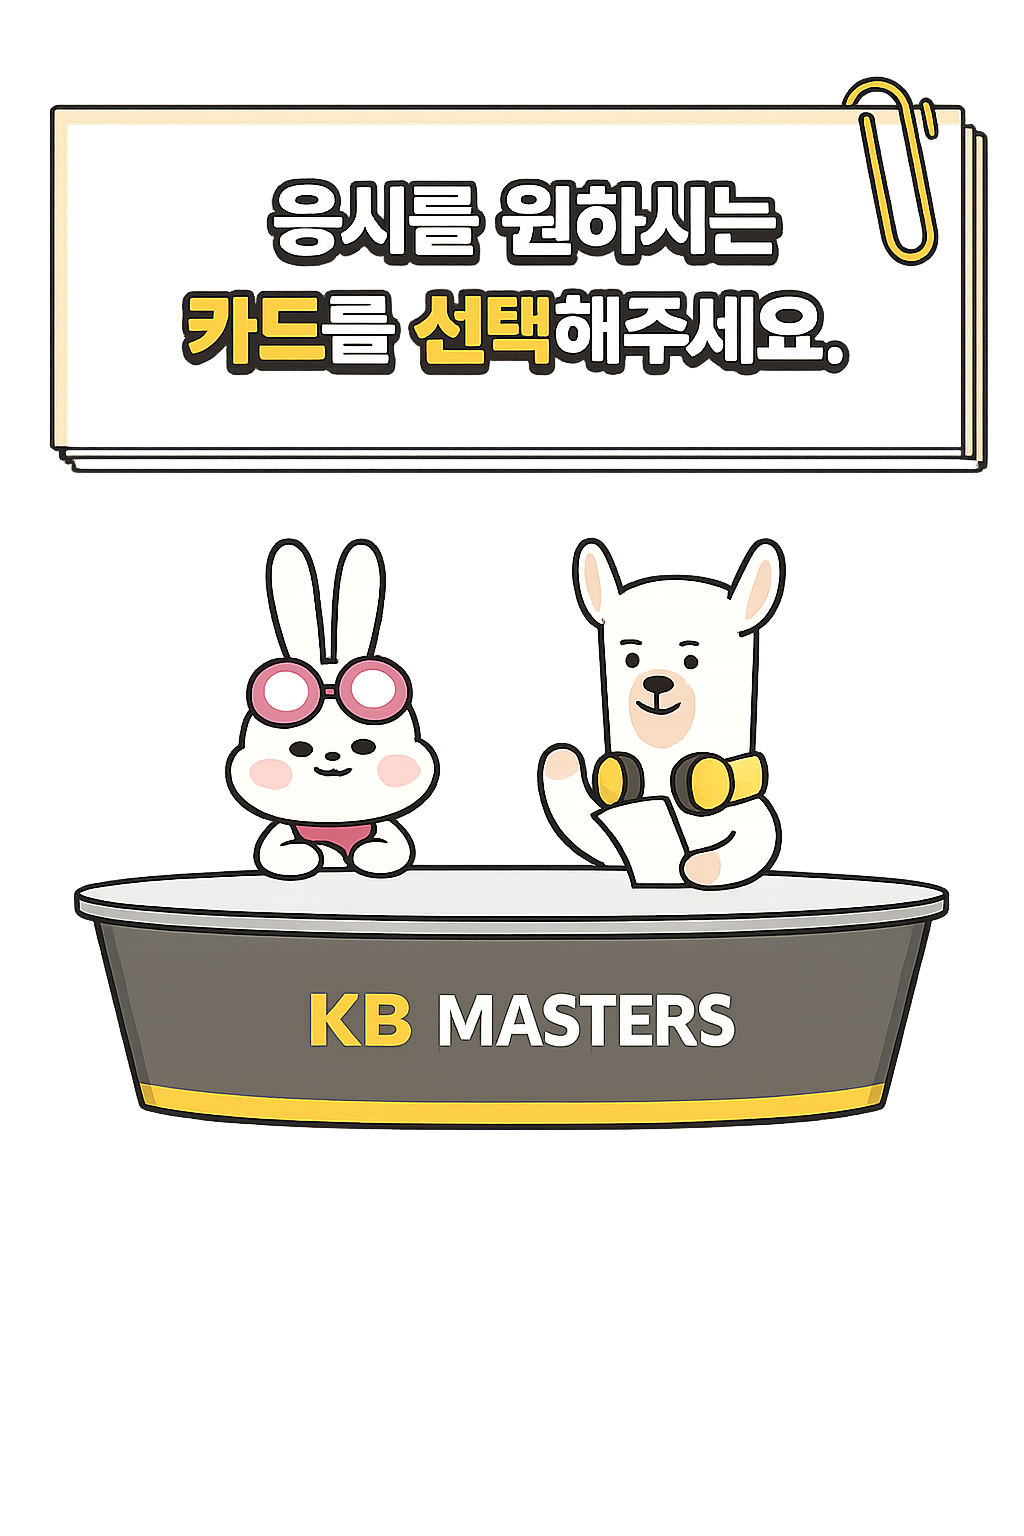
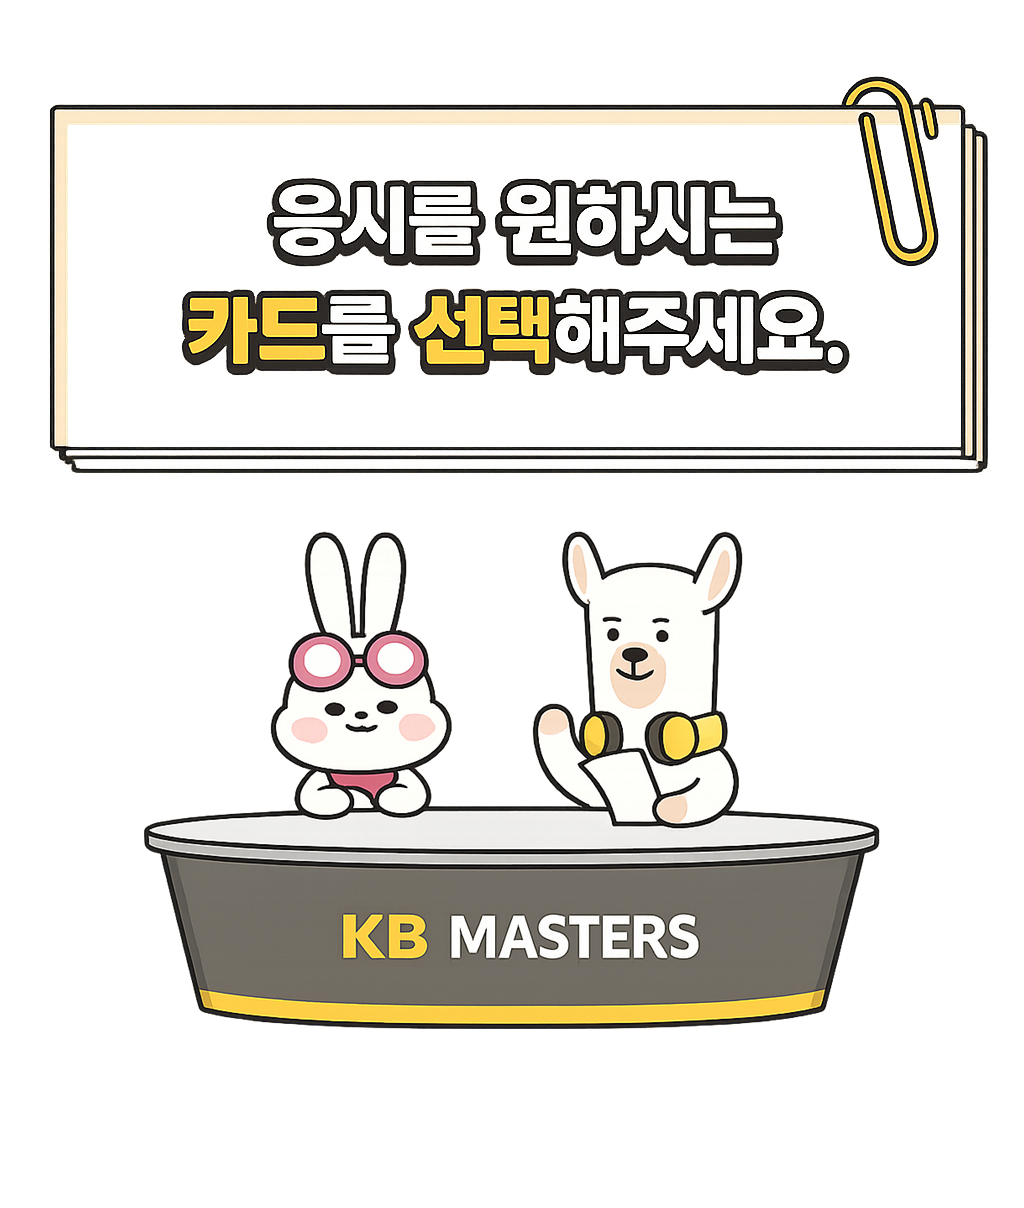
오답 리뷰 완료 화면 및 과목 안내 이미지 개선

diff --git a/frontend/style.css b/frontend/style.css
@@ -22,6 +22,15 @@
   padding: 0;
 }
 
+.sr-only {
+  position: absolute;
+  width: 1px;
+  height: 1px;
+  overflow: hidden;
+  clip: rect(0 0 0 0);
+  white-space: nowrap;
+}
+
 body {
   min-height: 100vh;
   background: linear-gradient(180deg, #fffdf4 0%, #f7f1df 100%);
@@ -326,6 +335,16 @@ body[data-page="wrong"] .brand {
 .nav-btn.active,
 .nav-btn:hover {
   background: #dbeafe;
+  color: #1d4ed8;
+}
+
+body[data-page="subjects"] .nav-btn {
+  color: #1d4ed8;
+}
+
+body[data-page="subjects"] .nav-btn.active,
+body[data-page="subjects"] .nav-btn:hover {
+  background: #fff3bf;
   color: #1d4ed8;
 }
 
@@ -920,7 +939,7 @@ body[data-page="my-info"] .screen-head,
 .subject-page-title {
   display: grid;
   gap: 4px;
-  margin: 0 auto 8px;
+  margin: -10px auto 14px;
   text-align: center;
 }
 
@@ -956,7 +975,7 @@ body[data-page="my-info"] .screen-head,
   gap: 8px;
   justify-items: center;
   margin: 0 auto;
-  max-height: 318px;
+  max-height: 306px;
   overflow: hidden;
 }
 
@@ -965,7 +984,7 @@ body[data-page="my-info"] .screen-head,
   width: min(300px, calc(100vw - 150px));
   min-width: 180px;
   height: auto;
-  margin: -18px 0 0;
+  margin: -30px 0 0;
   border-radius: 8px;
 }
 
@@ -993,7 +1012,7 @@ body[data-page="my-info"] .screen-head,
 
 @media (max-width: 420px) {
   .subject-guide-row {
-    max-height: 252px;
+    max-height: 240px;
   }
 
   .subject-start-btn {
@@ -2206,7 +2225,7 @@ body[data-page="mock"] .choice-btn.selected {
 .review-complete-visual {
   position: relative;
   justify-self: center;
-  width: min(100%, 320px);
+  width: min(100%, 420px);
 }
 
 .review-complete-visual img {
@@ -2215,17 +2234,25 @@ body[data-page="mock"] .choice-btn.selected {
   height: auto;
 }
 
-.review-complete-visual h2 {
+.review-complete-copy {
   position: absolute;
-  top: 14px;
-  left: 0;
-  right: 0;
-  margin: 0;
-  color: #f5b800;
-  font-size: 1.35rem;
+  top: 42%;
+  left: 18%;
+  display: grid;
+  width: 62%;
+  gap: 0;
+  color: #2b3440;
+  text-align: center;
+  transform: rotate(-6deg);
+}
+
+.review-complete-copy strong {
+  color: #17202a;
+  font-size: clamp(1.45rem, 3.5vw, 2.25rem);
   font-weight: 900;
+  line-height: 1;
   letter-spacing: 0;
-  text-shadow: none;
+  white-space: nowrap;
 }
 
 .review-complete-panel p:not(.eyebrow) {
@@ -2250,7 +2277,20 @@ body[data-page="mock"] .choice-btn.selected {
   justify-content: center;
   gap: 22px;
   flex-wrap: wrap;
-  margin-top: 28px;
+  margin-top: 34px;
+}
+
+.complete-actions #reviewRestartBtn {
+  border-color: #d5a900;
+  background: #f5c400;
+  color: #fff;
+  box-shadow: 0 6px 14px rgba(23, 32, 42, 0.12);
+}
+
+.complete-actions #reviewRestartBtn:hover,
+.complete-actions #reviewRestartBtn:focus-visible {
+  background: #eab900;
+  box-shadow: 0 8px 16px rgba(23, 32, 42, 0.14);
 }
 
 .result-hero {

diff --git a/frontend/wrong-practice.html b/frontend/wrong-practice.html
@@ -57,10 +57,12 @@
 
       <article class="review-complete-panel" id="reviewCompletePanel" hidden>
         <div class="review-complete-visual">
-          <img src="assets/subjects/wrong-review-complete.png" alt="" aria-hidden="true" />
-          <h2>오답 리뷰 완료</h2>
+          <img src="assets/subjects/wrong-review-result-card.png" alt="" aria-hidden="true" />
+          <div class="review-complete-copy">
+            <strong id="reviewCompleteScore">0문항 / 총 0문항</strong>
+          </div>
         </div>
-        <p id="reviewCompleteSummary">총 0문항 중 0문항을 다시 맞혔습니다.</p>
+        <p id="reviewCompleteSummary" class="sr-only">총 0문항 중 0문항을 다시 맞혔습니다.</p>
         <div class="complete-actions">
           <button class="secondary-btn" id="reviewBackBtn" type="button">오답노트로 돌아가기</button>
           <button class="primary-btn" id="reviewRestartBtn" type="button">다시 풀기</button>

diff --git a/frontend/js/wrong-notes.js b/frontend/js/wrong-notes.js
@@ -899,6 +899,9 @@ function renderWrongReviewComplete(set) {
   if (els.reviewCompleteSummary) {
     els.reviewCompleteSummary.textContent = `총 ${set.notes.length}문항 중 ${correctCount}문항을 다시 맞혔습니다.`;
   }
+  if (els.reviewCompleteScore) {
+    els.reviewCompleteScore.textContent = `${correctCount}문항 / 총 ${set.notes.length}문항`;
+  }
   if (els.reviewCompletePanel) els.reviewCompletePanel.hidden = false;
   showWrongPracticeScreen();
 }

diff --git a/frontend/js/state.js b/frontend/js/state.js
@@ -238,6 +238,7 @@ const els = {
   wrongReviewLoading: $("wrongReviewLoading"),
   wrongReviewLoadingBar: $("wrongReviewLoadingBar"),
   reviewCompletePanel: $("reviewCompletePanel"),
+  reviewCompleteScore: $("reviewCompleteScore"),
   reviewCompleteSummary: $("reviewCompleteSummary"),
   reviewBackBtn: $("reviewBackBtn"),
   reviewRestartBtn: $("reviewRestartBtn"),